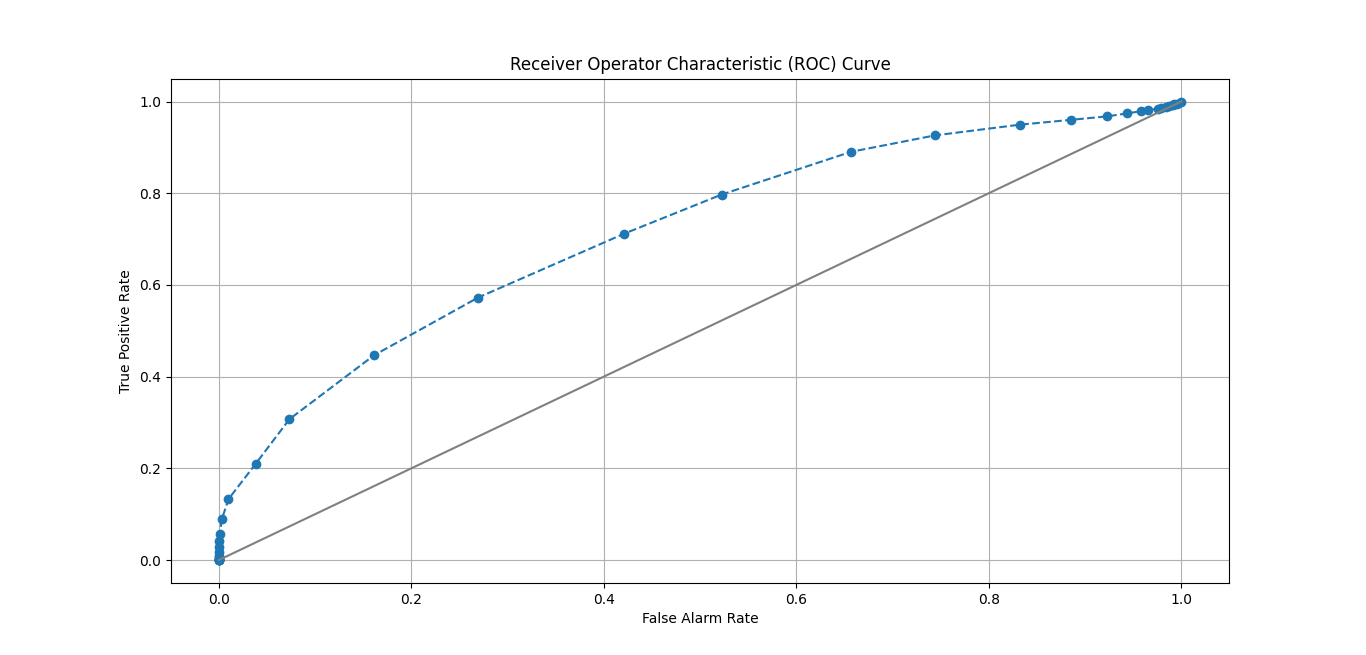
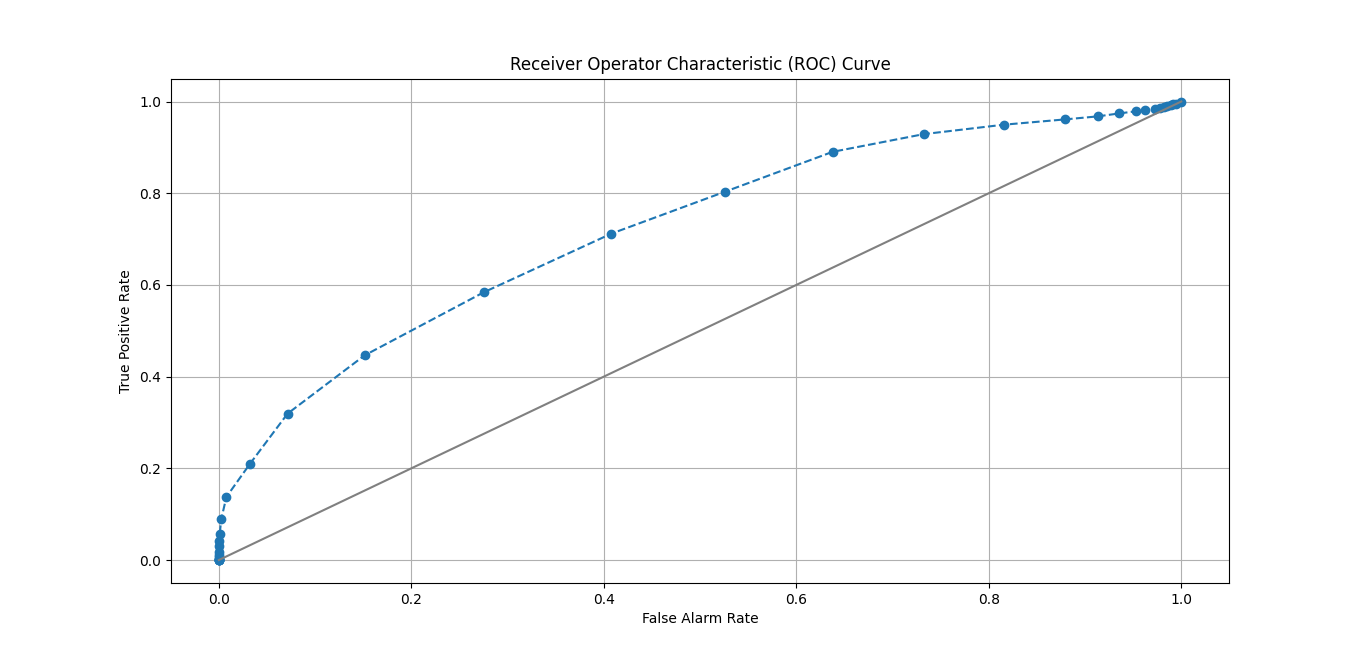
Classifier and Trainer updated: rounding inputs to integers

diff --git a/Assignment 2/HW_NN_Le_Huy_Trainer.py b/Assignment 2/HW_NN_Le_Huy_Trainer.py
@@ -60,7 +60,7 @@ def main():
             for current_row in csv_reader:
                 # Convert from string -> float -> rounded integer [cite: 136]
                 raw_speed_string = current_row[speed_column_index]
-                quantized_speed = int(round(float(raw_speed_string)))
+                quantized_speed = int(float(raw_speed_string)+0.5)
                 
                 # Extract the target intent (1 = non-aggressive, 2 = aggressive) [cite: 21]
                 target_intent = int(current_row[intent_column_index])
@@ -256,7 +256,7 @@ def classify_data(input_filename):
         
         for current_row in csv_reader:
             # Must quantize exactly the same way as the trainer! [cite: 199]
-            speed_val = int(round(float(current_row[speed_index])))
+            speed_val = int(float(current_row[speed_index])+0.5)
             
             # Apply the fixed threshold [cite: 97]
             if speed_val >= {best_speed_threshold}:

diff --git a/Assignment 2/HW_NN_Classifier_Le_Huy.py b/Assignment 2/HW_NN_Classifier_Le_Huy.py
@@ -49,7 +49,7 @@ def classify_data(input_filename):
         
         for current_row in csv_reader:
             # Must quantize exactly the same way as the trainer! [cite: 199]
-            speed_val = int(round(float(current_row[speed_index])))
+            speed_val = int(float(current_row[speed_index])+0.5)
             
             # Apply the fixed threshold [cite: 97]
             if speed_val >= 63:
